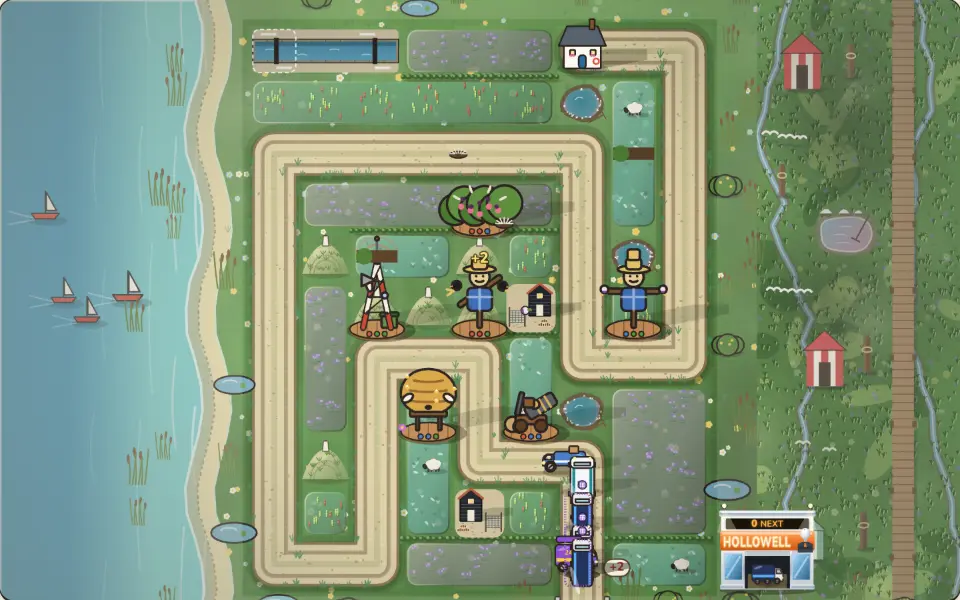
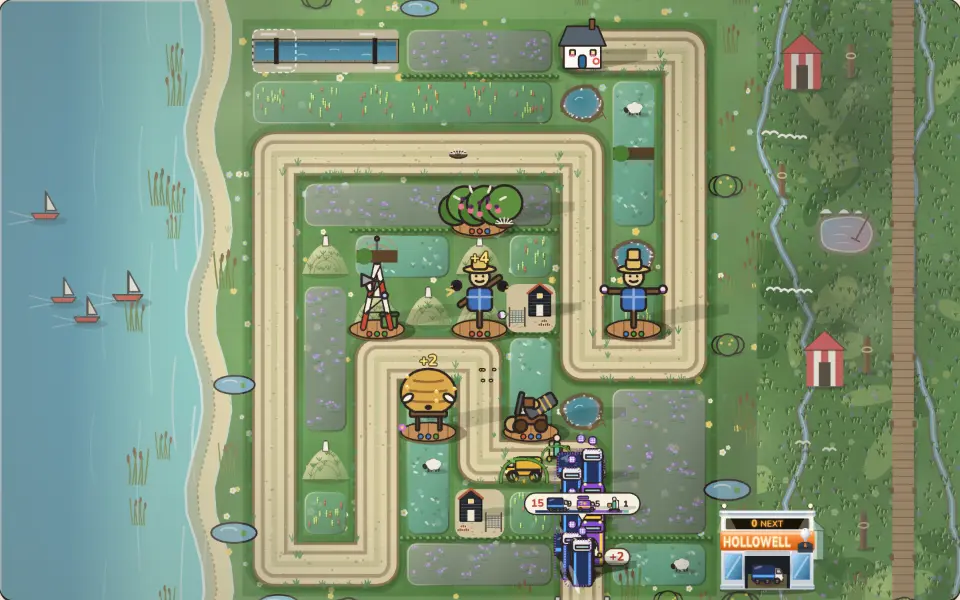
Lane B 17:21 wrap-up: red E2E fixed, planned 533-537, 537 done; lock released
Claude-Session: https://claude.ai/code/session_01SimvMN1RHBGCWN7Eo7MzhN

diff --git a/games/hedgerow/src/main.ts b/games/hedgerow/src/main.ts
@@ -5212,7 +5212,7 @@ function syncDepots(g: Game): void {
   if (!show) {
     layer0?.remove();
     depotKey = "";
-    if (renderer && !is3D(renderer)) (renderer as Renderer).depotLanes.clear();
+    if (renderer && !is3D(renderer)) { (renderer as Renderer).depotLanes.clear(); (renderer as Renderer).depotBoxes = []; }
     return;
   }
   // The mood: each time a round is over (the round counter moves on and the field is between rounds), compare the
@@ -5363,6 +5363,9 @@ function syncDepots(g: Game): void {
   }
   r.depotLanes = new Set(spots.map((sp) => sp.lane));
   r.depotMouths = mouths;
+  // Plan item 537: the depots' boxes in the canvas's CSS px, so the queue's name tag keeps off them (it lay under the
+  // upper depot at D l34).
+  r.depotBoxes = spots.map((sp) => ({ x: sp.x + stage.left - canvas.left, y: sp.y + stage.top - canvas.top, w: sp.size, h: sp.size }));
   // Toggled in place, not rebuilt: rebuilding the depots' SVG in the round's call frame delayed that frame.
   if (layer0) for (const el of layer0.querySelectorAll<HTMLElement>(".depot")) el.toggleAttribute("data-showdown", standOut);
   const key = `${L.id}|${size}|${depotMood}|${doorOpen}|${spots.map((s) => `${Math.round(s.x)},${Math.round(s.y)},${s.count},${s.size},${s.jetty}`).join(";")}`;

diff --git a/games/hedgerow/src/render.ts b/games/hedgerow/src/render.ts
@@ -1238,7 +1238,7 @@ export class Renderer {
                 // ...and off Cath's figure.
                 const hp = this.heroPx();
                 const cath = { x: X(game.hero.x) - hp.w / 2, y: Y(game.hero.y) - hp.h, w: hp.w, h: hp.h + s * 0.3 };
-                const r = this.namePlate(ctx, ENEMIES[kind].name, box, s, [...shown.leads, ...shown.plates, cath], behind, plots(), this.driverImg(kind));
+                const r = this.namePlate(ctx, ENEMIES[kind].name, box, s, [...shown.leads, ...shown.plates, cath, ...this.depotBoxes], behind, plots(), this.driverImg(kind));
                 if (r) shown.names.push(r);
               },
             });
@@ -1910,6 +1910,8 @@ export class Renderer {
   shownQueue: { leads: Rect[]; plates: Rect[]; names: Rect[] } | null = null;
   /** Plan item 157: the lanes (0, 1) whose gate has a depot on screen, which shows the count. */
   depotLanes = new Set<number>();
+  /** Plan item 537: the 2D depots' boxes (main.ts places them over the canvas), for the name tag to keep off. */
+  depotBoxes: Rect[] = [];
   /** Plan item 403: lanes whose depot stands on the lane's mouth, and how far along the lane its queue starts (cells). */
   depotMouths = new Map<number, number>();
   private queueAge = 0;

diff --git a/games/hedgerow/src/styles.css b/games/hedgerow/src/styles.css
@@ -5005,6 +5005,9 @@ img.act-scene {
 /* Plan item 529: the vehicle's driver, a small mugshot on the portrait's top-left (the counter badge has its foot) */
 .lcard-driver { position: absolute; left: -6px; top: -5px; width: 22px; height: 22px; overflow: hidden; border-radius: 50%; background: color-mix(in srgb, var(--kraft) 55%, var(--paper-hi)); box-shadow: 0 0 0 1.5px var(--paper-hi), 0 0 0 2.5px var(--kraft); }
 .lcard-driver svg { display: block; width: 100%; height: 100%; }
+/* plan item 537: on the D card's docked rows the face, the vehicle and the counter badge crowded one 40 px portrait: the
+   face shows on the phone sheet, the field guide, the Almanac and the lane tags instead */
+@media (min-width: 900px) { #screen-select li.act.act-has-card .lcard-driver { display: none; } }
 @media (min-width: 900px) {
   /* at D the counter is the tower's badge on the portrait (its words stay for screen readers) */
   #screen-select li.act .level-card .lcard-enemies .enemy-portrait img.lcard-counter-badge {

diff --git a/games/runnel/src/styles.css b/games/runnel/src/styles.css
@@ -5054,3 +5054,7 @@ body[data-mode='sunday'] .rail > .cal-title:first-of-type {
   .stage .cell.ground-field:not(.wet, .stone) .tile { fill: color-mix(in srgb, var(--dry-field) 50%, var(--vl-wheat, var(--dry-field))); }
   .stage .cell.ground-meadow:not(.wet, .stone) .tile { fill: color-mix(in srgb, var(--dry-meadow) 50%, var(--vl-meadow, var(--dry-meadow))); }
 }
+
+/* Plan item 537: while Cath's first-field lesson points at a tile, her bubble says how to play, so the footer hint
+   stands down (it repeated 'Tap a tile to turn it' under her). It keeps its line, so nothing moves when it returns. */
+body:has(.tiles > g.cell.lesson-target) #hint { visibility: hidden; }

diff --git a/portfolio/index.html b/portfolio/index.html
@@ -38,7 +38,7 @@
         </div>
         <dl class="stats" aria-label="The studio in numbers">
           <div><dt>Products</dt><dd><span data-count="4">4</span></dd></div>
-          <div><dt>Build sessions a day</dt><dd><span data-count="24">24</span></dd></div>
+          <div><dt>Build sessions a day</dt><dd><span data-count="48">48</span></dd></div>
           <div><dt>Quality gates per release</dt><dd><span data-count="8">8</span></dd></div>
           <div><dt>Human in the loop</dt><dd><span data-count="1">1</span></dd></div>
         </dl>

diff --git a/portfolio/src/apps.ts b/portfolio/src/apps.ts
@@ -68,7 +68,7 @@ export const APPS: PortfolioApp[] = [
     stack: ['TypeScript', 'three.js', 'React', 'WebAudio', 'Playwright', 'Vercel'],
     facts: [
       ['Games', '4'],
-      ['Build sessions', '24 a day'],
+      ['Build sessions', '48 a day'],
       ['Quality gates', '8 per release'],
     ],
   },

diff --git a/DECISIONS.md b/DECISIONS.md
@@ -343,3 +343,4 @@ Newest at the bottom. At most 5 lines per entry, under 250 lines in all (SPEC 16
 - 2026-11-19 15:51 lane A (530): Hedgerow's poster Cath holds a seed packet (a new shared `packet` pose: the wave arm with the packet in hand), not the lane pennant; the pennant pose stays for other screens.
 - 2026-11-19 16:21 lane B (529): Hollowell's drivers are one parametric SVG (prop, hair, skin, ink) per vehicle in fleetfaces.ts, not 39 hand drawings, and reuse item 64's first-sighting page and save rather than a new reveal; the 3D tag shows the face as an img so its text stays the vehicle's name.
 - 2026-11-19 17:40 lane A (319): judged the critique's 'desktop pick hides her behind the card' a headless artifact (a DPR-2 shot of a half-settled frame; the settled frame and faceBox put her centre) and fixed its hairline point instead: a painted shade under the fringe's lower edge, not a new mesh or a darker hair cap.
+- 2026-11-19 17:21 lane B: critique104's badge check kept, the spec swipes item 530's shelf to the poster first. Planning 533-537 from plan1119e kept all four critique items. 537: the D card's docked rows lose the driver face (crowding) rather than shrinking the 40 px portrait below level-card's floor.
